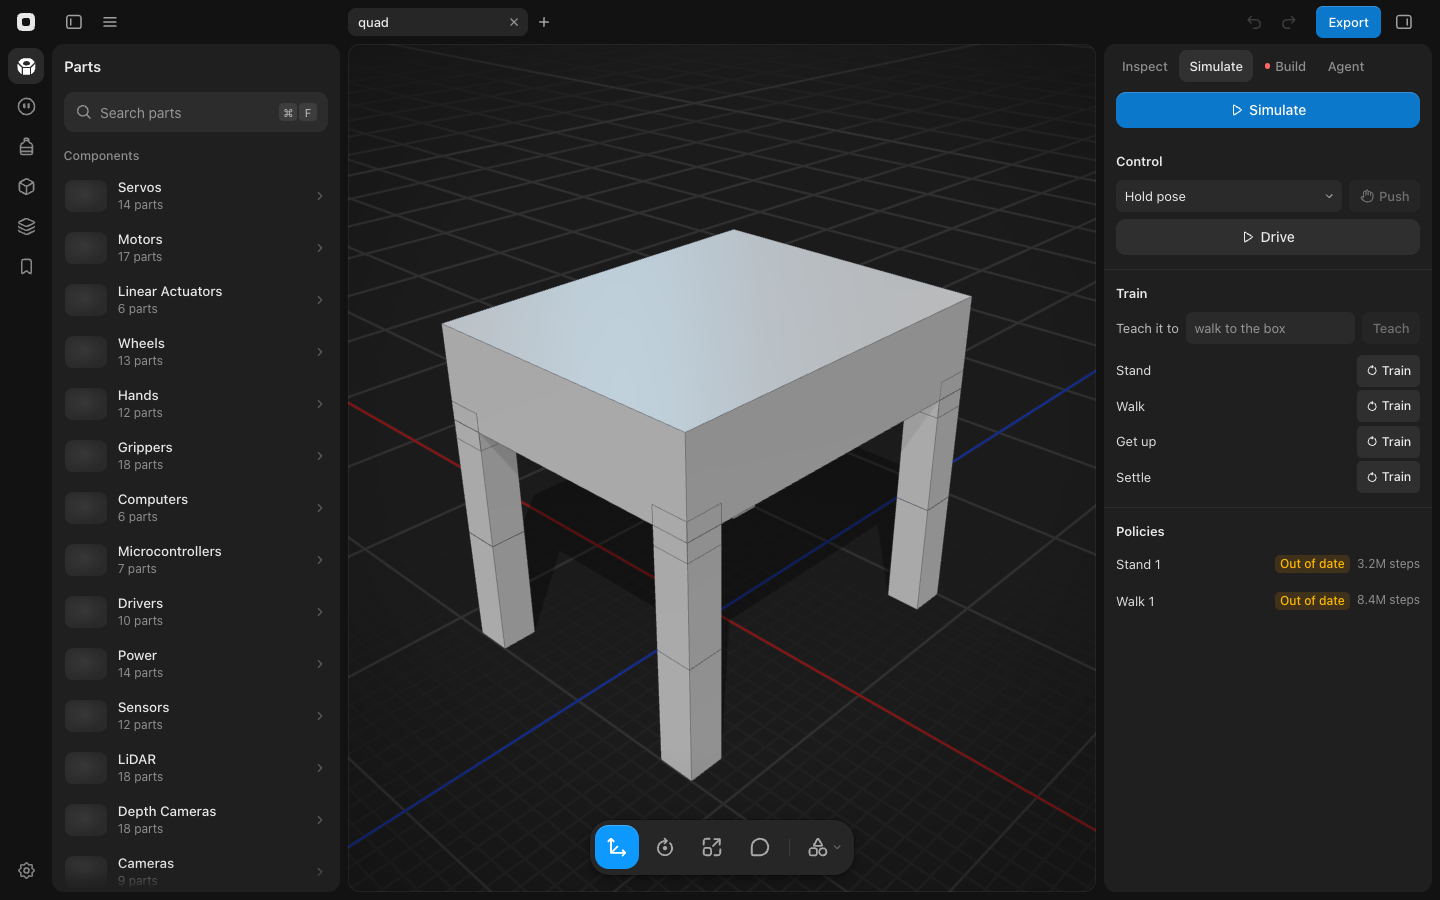
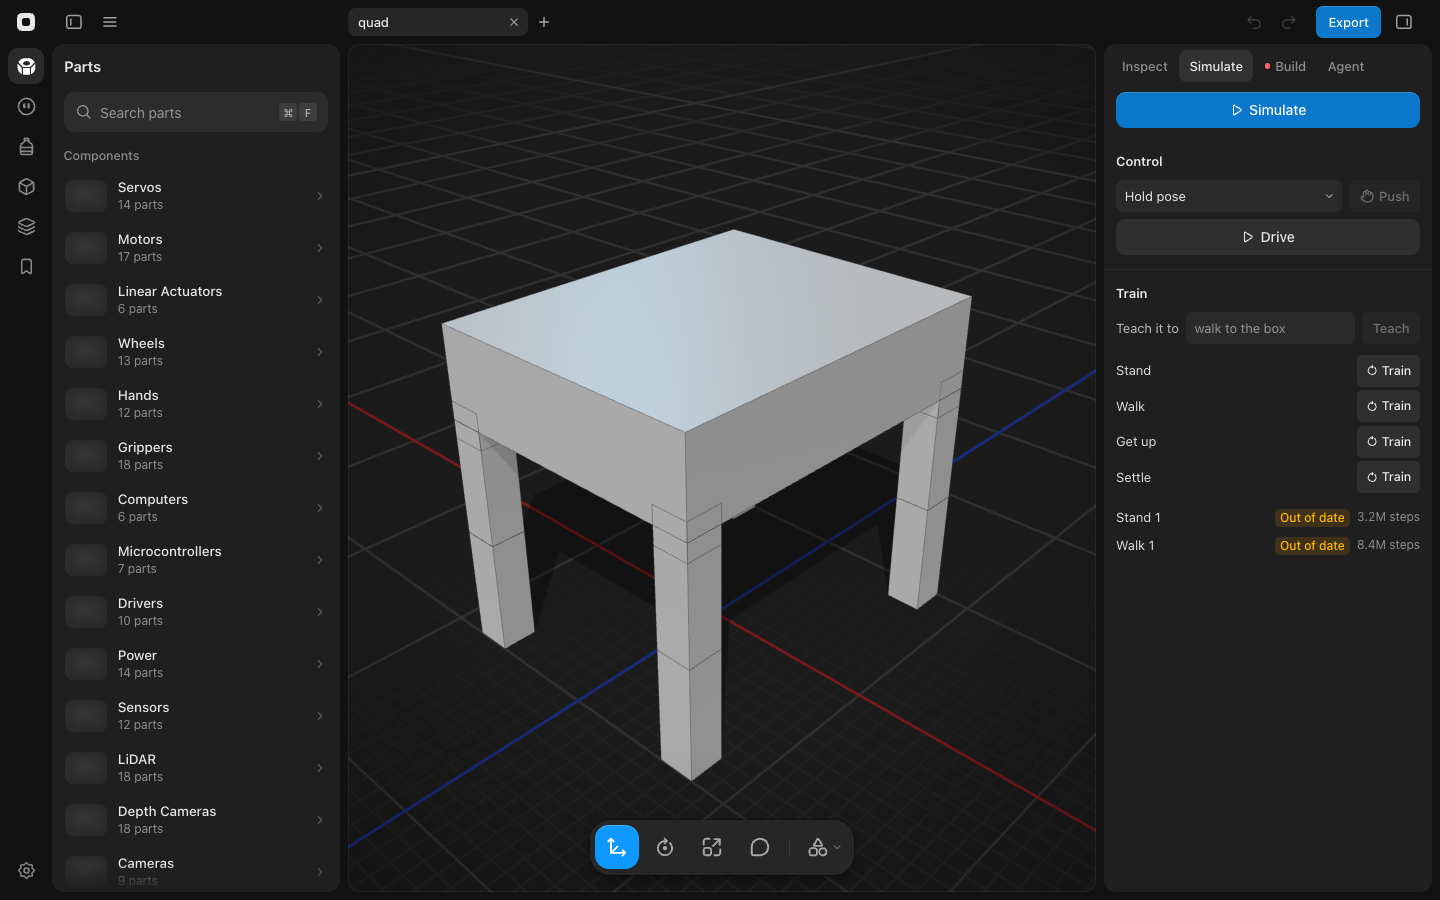
Recapture the retrain help screenshots and share one torque predicate
The review found that the retrain help article's screenshots still showed a
separate Policies section, which this pull request removes. out-of-date.png,
retrain.png and retraining.png are now recaptured with the policies listed
inside Train, using the same filenames.

Torque estimates now counts a joint as having known torque when it has any
catalog actuator (jointServos), or else a published limit. That is the same
test Servo torque's jointRating uses, so an actuator with a stall torque of 0
can no longer be graded by one row and listed as missing by the other.

Changed region(s): [[0.875, 0.56, 0.9688, 0.6844], [0.7812, 0.56, 0.8125, 0.6533]]

diff --git a/src/utils/engineeringSimModel.ts b/src/utils/engineeringSimModel.ts
@@ -13,9 +13,7 @@ const NAMED = 3;
 
 const labels = (joints: RobotJoint[]) => listIds(joints.map(jointLabel), NAMED);
 
-const hasStall = (ctx: CheckContext, j: RobotJoint) => jointServos(j, ctx.byPart).some((s) => s.stallNm > 0);
-
-const hasTorque = (ctx: CheckContext, j: RobotJoint) => hasStall(ctx, j) || (j.effortNm ?? 0) > 0;
+const hasTorque = (ctx: CheckContext, j: RobotJoint) => jointServos(j, ctx.byPart).length > 0 || (j.effortNm ?? 0) > 0;
 
 const isCatalogServo = (p: ScenePart | undefined): p is ScenePart =>
   !!p?.componentId && COMPONENT_BY_ID[p.componentId]?.group === 'Servos';
